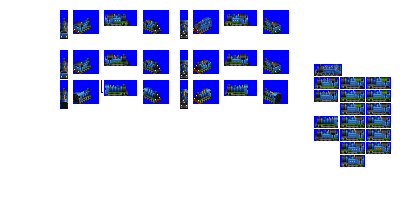
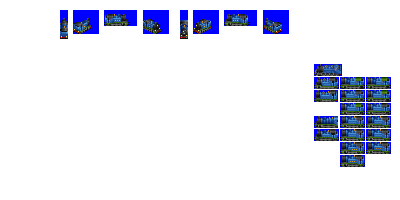
Change: sprites complete for Proper Job

diff --git a/src/vehicles/proper_job.py b/src/vehicles/proper_job.py
@@ -11,7 +11,8 @@ def main(roster):
                             gen=3,
                             replacement_consist_id='shoebox', # this line ends with Shoebox and is merged with branch_express_2
                             tractive_effort_coefficient=0.2,
-                            random_reverse=True)
+                            random_reverse=True,
+                            sprites_complete=True)
 
     consist.add_unit(type=SteamEngineUnit,
                      weight=57,
